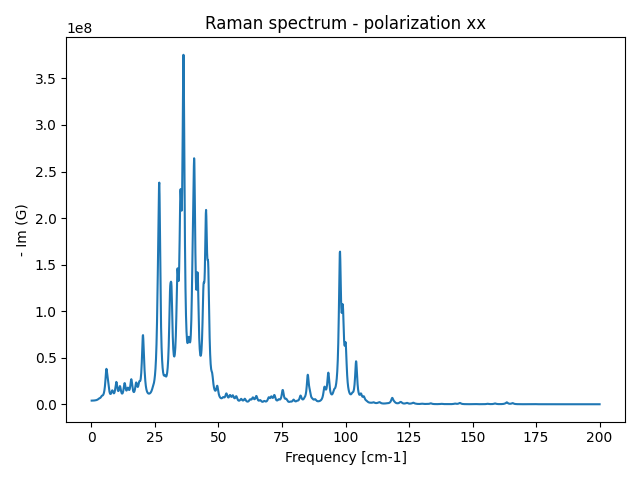
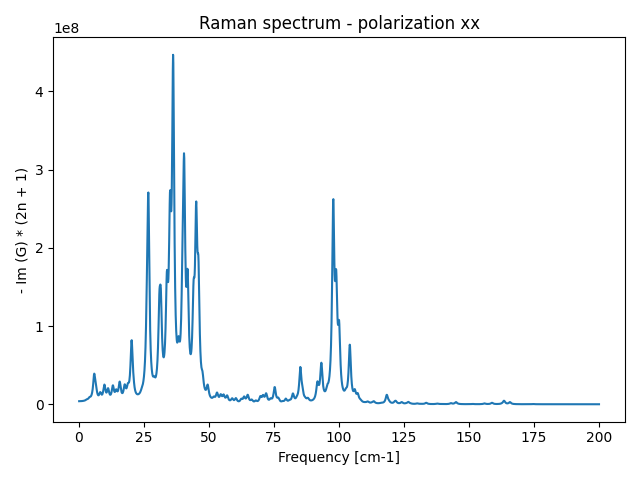
Fixed the LO-TO split in the Raman-IR tutorials

diff --git a/Tutorials/03-Spectral_Functions_Raman_IR_Spectra/tdscha_run_ir.py b/Tutorials/03-Spectral_Functions_Raman_IR_Spectra/tdscha_run_ir.py
@@ -33,7 +33,7 @@ def compute_ir():
     ensemble.update_weights(final_dyn, TEMPERATURE)
 
     # Initialize the TD-SCHA Lanczos algorithm
-    lanczos = tdscha.DynamicalLanczos.Lanczos(ensemble)
+    lanczos = tdscha.DynamicalLanczos.Lanczos(ensemble, lo_to_split=None)
     lanczos.init()
 
     # Let us define which level of anharmonicity we want

diff --git a/Tutorials/03-Spectral_Functions_Raman_IR_Spectra/main.md b/Tutorials/03-Spectral_Functions_Raman_IR_Spectra/main.md
@@ -237,7 +237,7 @@ def compute_ir():
     ensemble.update_weights(final_dyn, TEMPERATURE)
 
     # Initialize the TD-SCHA Lanczos algorithm
-    lanczos = tdscha.DynamicalLanczos.Lanczos(ensemble)
+    lanczos = tdscha.DynamicalLanczos.Lanczos(ensemble, lo_to_split=None)
     lanczos.init()
 
     # Define which level of anharmonicity we want
@@ -355,13 +355,15 @@ The algorithm is initialized as follows:
 
 ```python
     # Initialize the TD-SCHA Lanczos algorithm
-    lanczos = tdscha.DynamicalLanczos.Lanczos(ensemble)
+    lanczos = tdscha.DynamicalLanczos.Lanczos(ensemble, lo_to_split=None)
     lanczos.init()
 
     # Let us define which level of anharmonicity we want
     lanczos.ignore_v3 = False # Add bubble contribution if false
     lanczos.ignore_v4 = True # Add RPA resummation if false 
 ```
+
+The flag `lo_to_split` can be used with a direction for a q vector in which the q-mesh will be offsetted. In this way, phonons at $\Gamma$ will have energies and polarization vectors determined by the q vector exchanged between light and phonons. For now, we ignore `lo_to_split` setting it to `None`.
 
 The `ignore_v3` and `ignore_v4` flags determine which approximation level we use to compute the phonon spectra. By setting both to False, we compute the full TD-SCHA response function without further approximations.
 Setting `ignore_v4` to True is equivalent to setting `include_v4` to False in the Free energy Hessian. However, thanks to how the Lanczos algorithm is formulated, including the full RPA resummation with the 4-phonon scattering vertices does not increase the computational cost of the algorithm. In particular, the cost only increases by a factor of 2, without any consequences on the memory. Here we ignore it for speed, but you can try setting it to False as well.
@@ -739,7 +741,7 @@ which excites phonons inside the material.
 The result is the following
 
 <center>
-![Raman spectrum with 200 iterations of the Lanczos algorithm along the x polarization for both incoming and outgoing radiation](Raman_xx_spectrum.png){ width=60% }
+![Raman spectrum with 200 iterations of the Lanczos algorithm along the x polarization for both incoming and outgoing radiation. This plot includes the Stokes scattering facctor $1 + n(\omega)$.](Raman_xx_spectrum.png){ width=60% }
 </center>
 
 > **Exercise:**